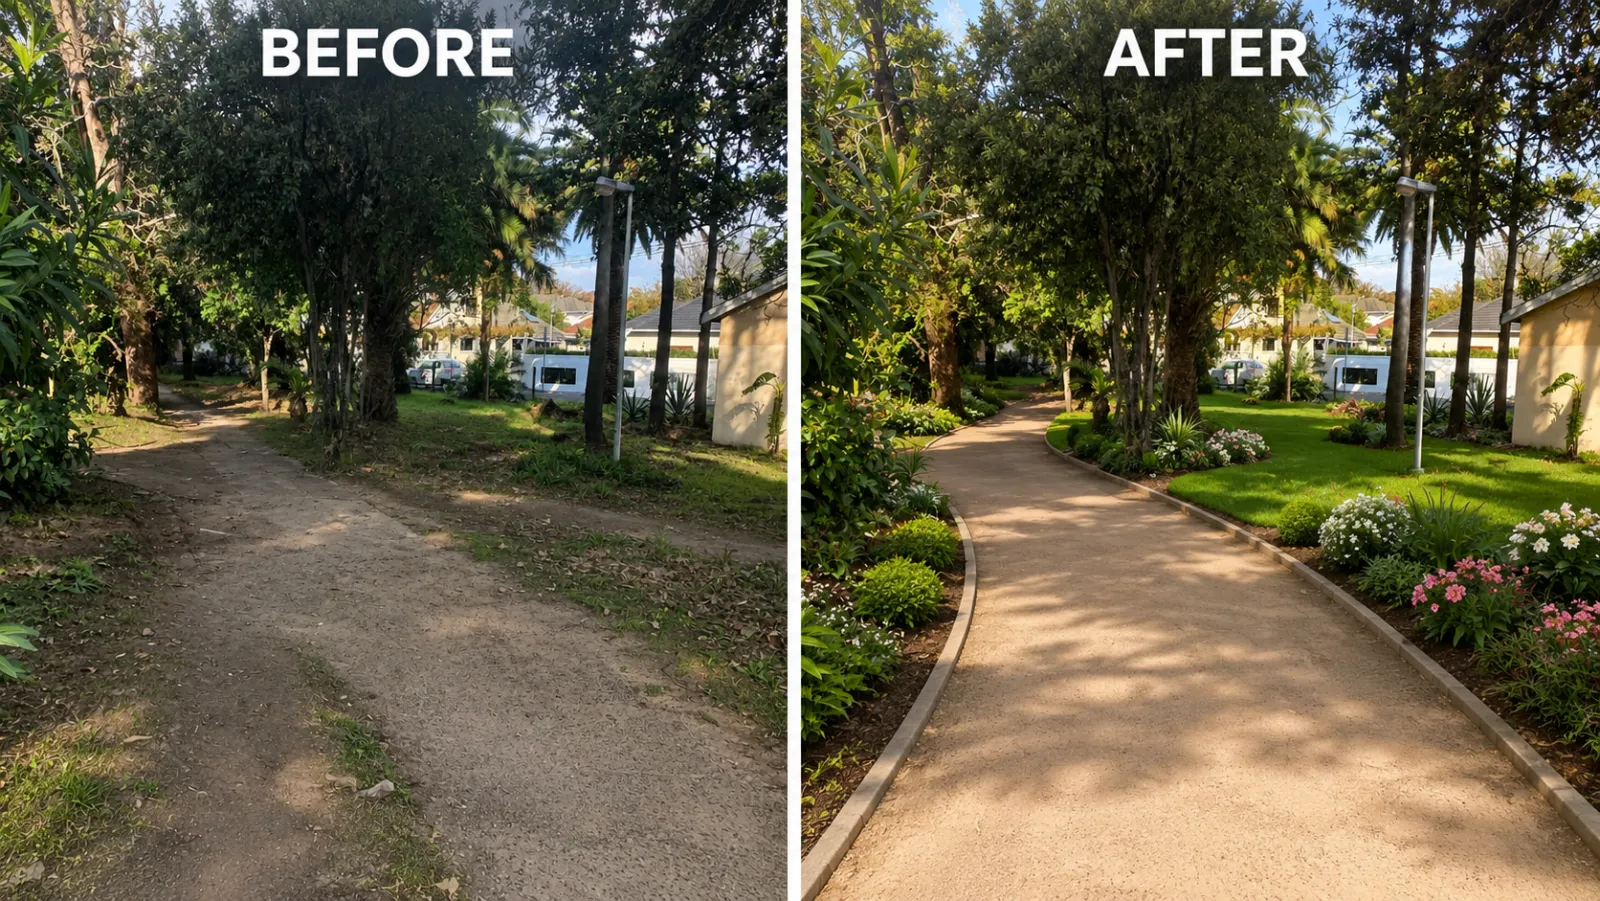
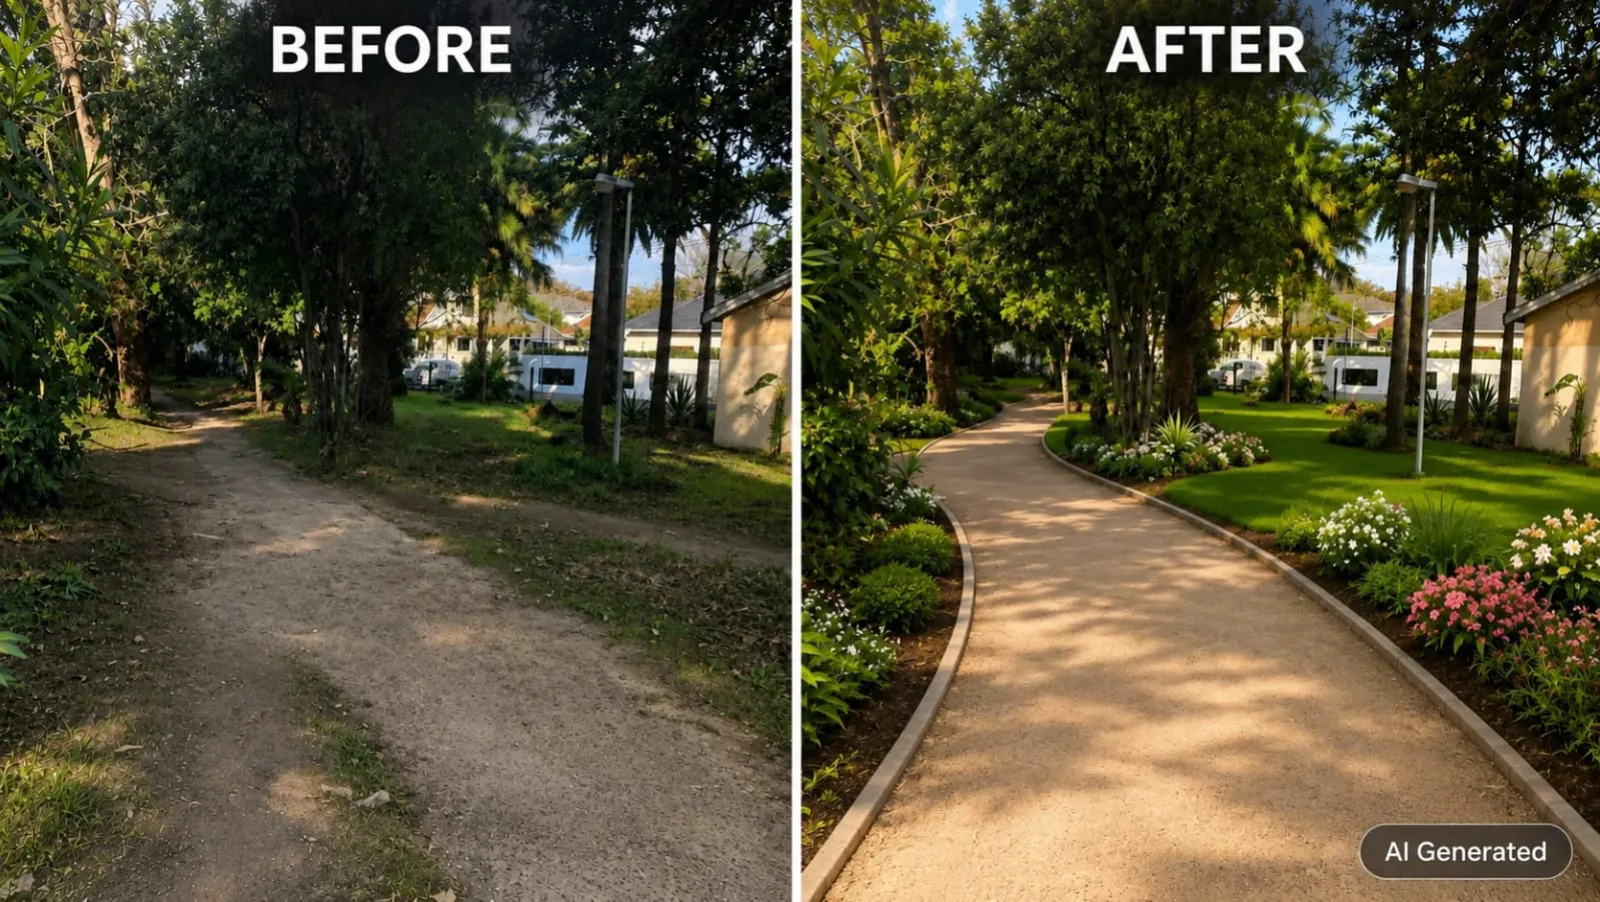
refactor: update image sources for project cards to use WebP format for improved performance

diff --git a/index.html b/index.html
@@ -1131,7 +1131,7 @@ footer{background:var(--dark-deep);color:#fff;padding:var(--s8) 0 var(--s4)}
       <!-- Supporting six — 2 × 3 grid -->
       <div class="proj-rest">
         <div class="env-card reveal rd2">
-          <img class="proj-card-thumb" src="images/beach-ranger.png" alt="Beach Ranger on the Hangberg-side Hout Bay shoreline" loading="lazy" style="object-fit:contain">
+          <img class="proj-card-thumb" src="images/beach-ranger.webp" alt="Beach Ranger on the Hangberg-side Hout Bay shoreline" loading="lazy" style="object-fit:contain">
           <div class="env-icon a"><i class="bi bi-person-walking"></i></div>
           <h3>Beach Ranger Programme</h3>
           <p>David Becker walks Hout Bay Beach every single day — removing waste, engaging visitors, and showing what consistent environmental care looks like.</p>
@@ -1143,7 +1143,7 @@ footer{background:var(--dark-deep);color:#fff;padding:var(--s8) 0 var(--s4)}
           <p>Branded bins in key locations reducing litter and encouraging responsible waste disposal. Turning awareness into daily action across Hout Bay.</p>
         </div>
         <div class="env-card reveal rd1" id="proj-hangberg">
-          <img class="proj-card-thumb" src="images/hangberg.png" alt="Hangberg before/after waste management beautification" loading="lazy">
+          <img class="proj-card-thumb" src="images/hangberg.webp" alt="Hangberg before/after waste management beautification" loading="lazy">
           <div class="env-icon b"><i class="bi bi-buildings"></i></div>
           <h3>Hangberg Waste Management &amp; Beautification</h3>
           <p>A managed collection cage staffed daily, plus City and recycling-operator partnerships keeping the area clean and safer for the whole community.</p>